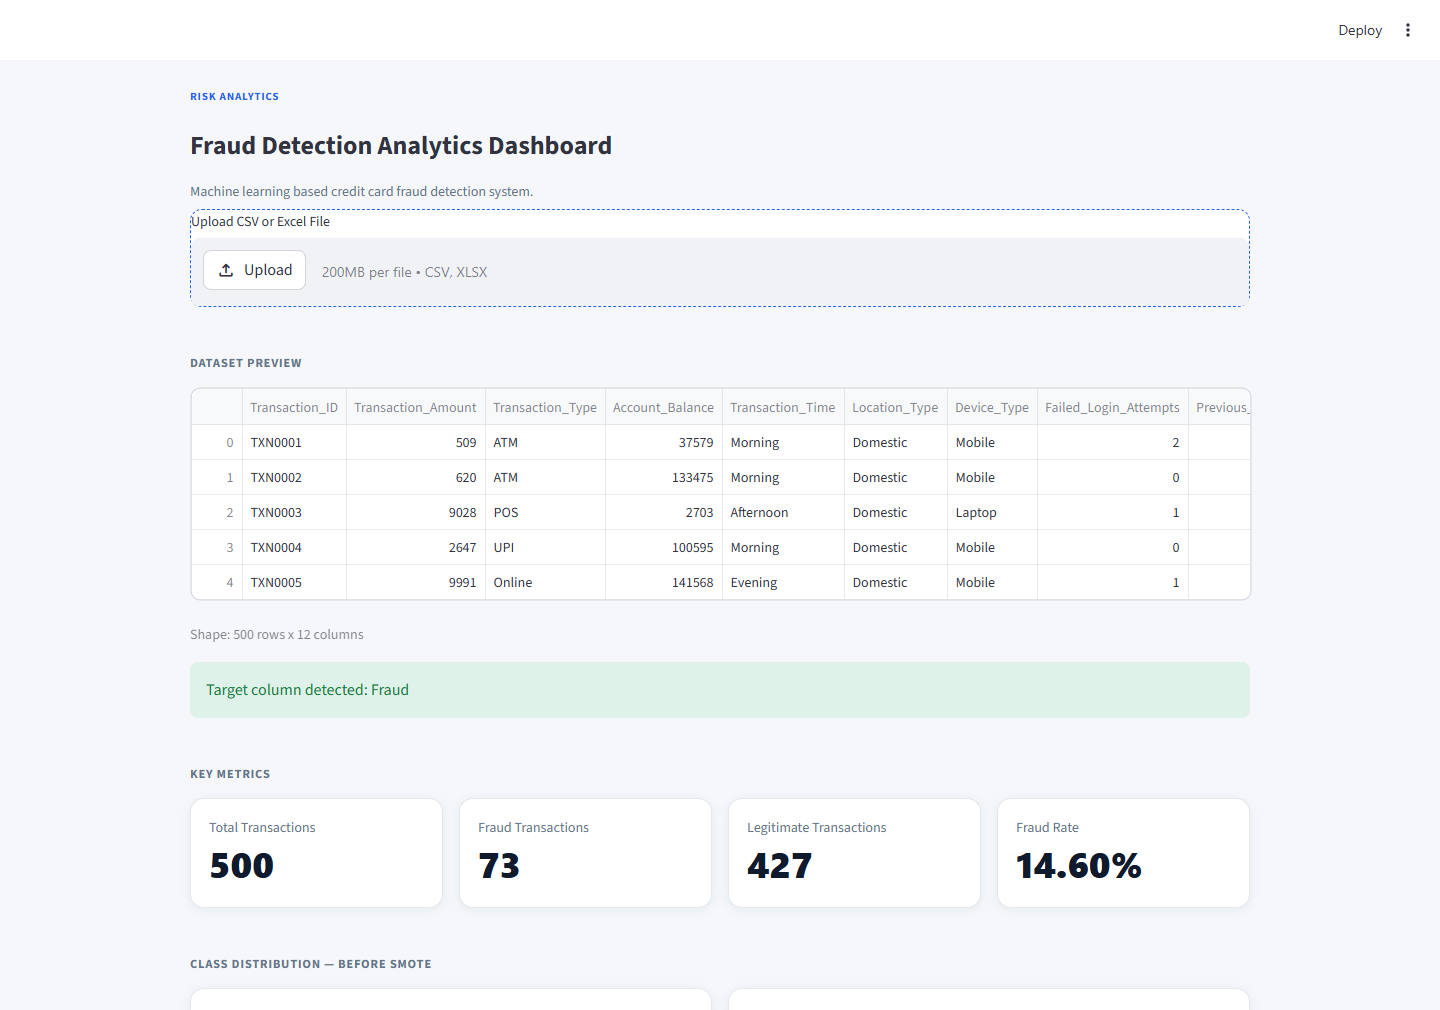
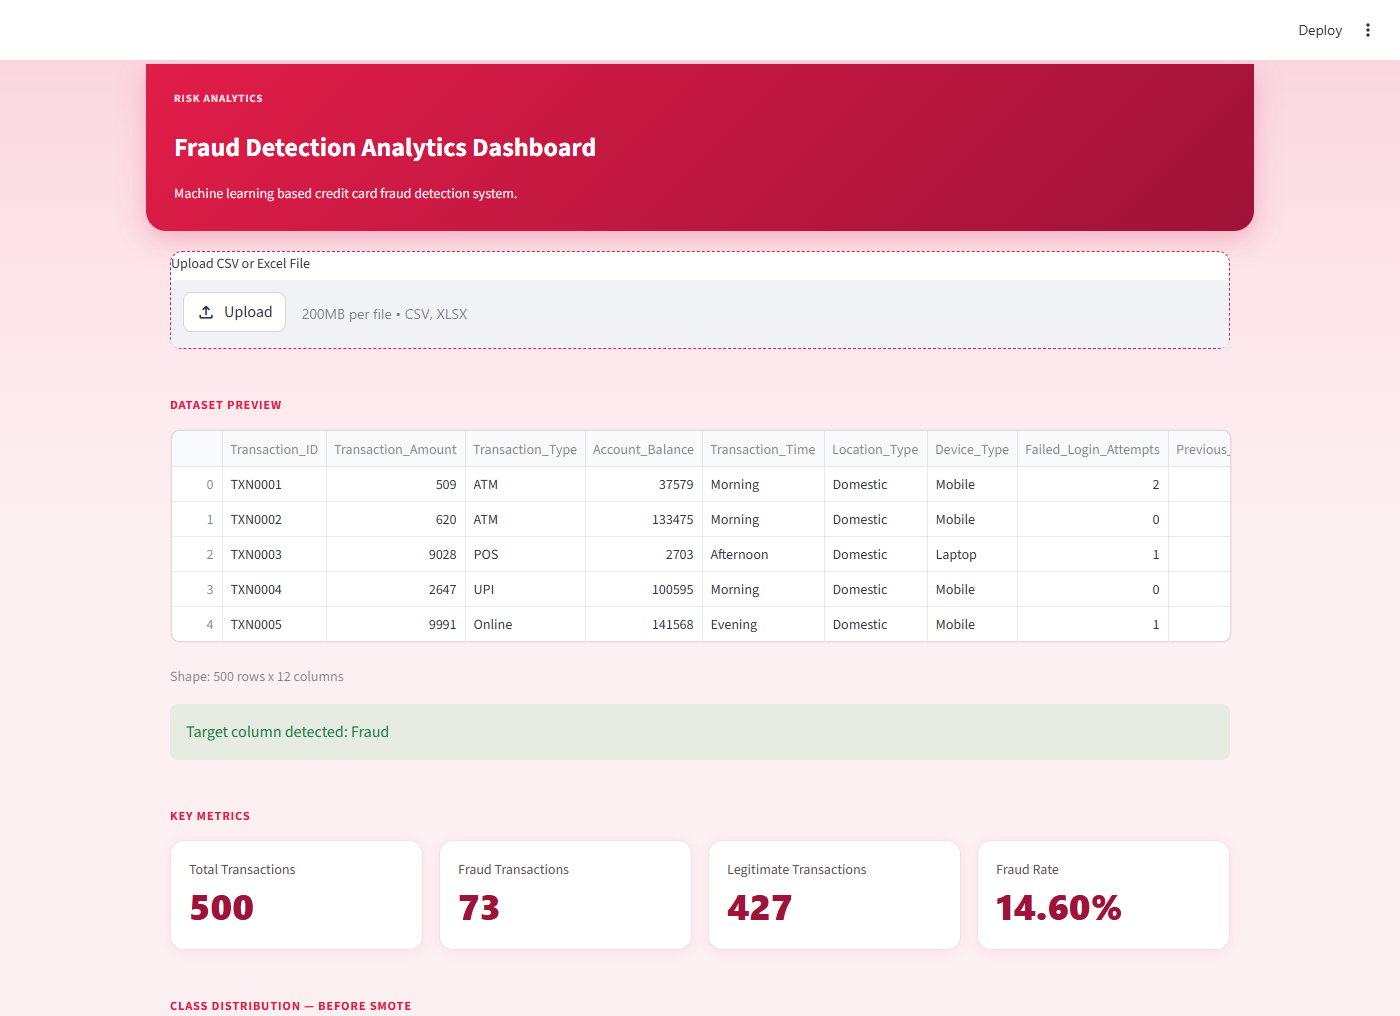
Deepen page background tint and refresh README screenshots
Boosts the app background from a near-white wash to a clearly
visible blush-pink gradient behind the white cards, and updates all
three README screenshots to reflect the current theme.

diff --git a/app.py b/app.py
@@ -49,7 +49,7 @@ st.markdown(
     """
     <style>
     .stApp {
-        background: linear-gradient(180deg, #FCF1F3 0%, #FBF6F7 320px, #FBF6F7 100%);
+        background: linear-gradient(180deg, #FAD3DC 0%, #FCE1E7 220px, #FDF0F2 520px, #FCF5F6 100%);
         font-family: 'Inter', 'Segoe UI', sans-serif;
     }
     .block-container { padding-top: 4.5rem; padding-bottom: 3rem; max-width: 1220px; }
